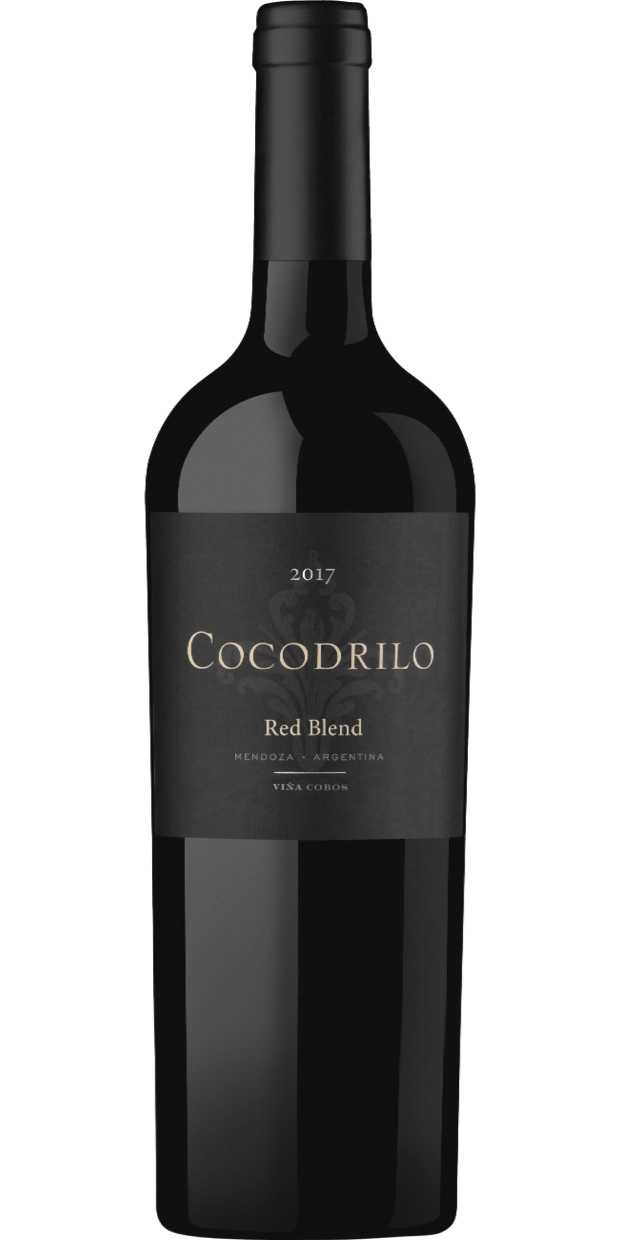
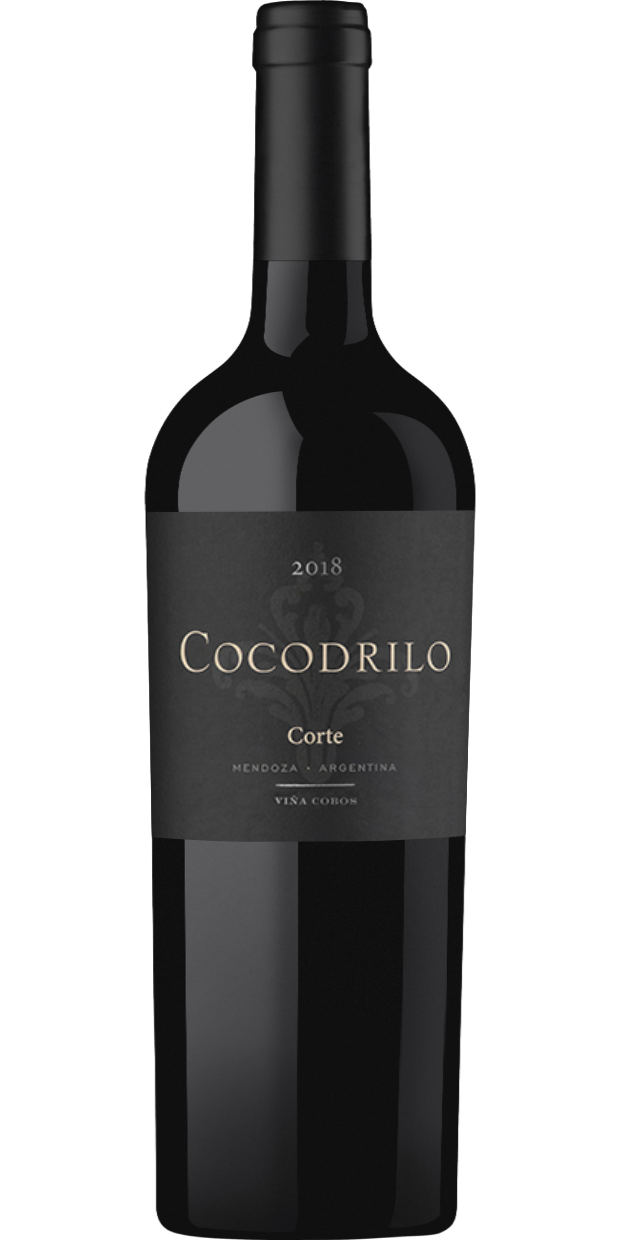
Cobos

Changed region(s): [[0.2758, 0.3984, 0.7661, 0.6742], [0.429, 0.5823, 0.5823, 0.6742], [0.4597, 0.429, 0.5516, 0.4903]]

diff --git a/src/data/WineData.ts b/src/data/WineData.ts
@@ -132,9 +132,9 @@ export const WineData: { [key: string]: WineDataType } = {
   "cobos_cocodrilo_corte": {
     img: require('../public/images/wines/cobos_cocodrilo_corte.png'),     //DONE
     cellar: 'cobos',
-    description: 'Un vino complejo, muy elegante y equilibrado. En nariz se destaca la frescura, donde encontramos frutas rojas como guinda y cassis, granada o cereza negra. Notas especiadas muy características del cabernet -pimienta, clavo de olor y paprika- se complementan con un toque floral y una nota herbal a eucalipto para lograr este elegante bouquet. En boca tiene una entrada amable, taninos finos y dulces, buena longitud de boca y persistencia.',
+    description: 'Cocodrilo Corte sigue la tradición del assemblage al estilo Bordeaux. Mantiene su base Cabernet Sauvignon, variando cada cosecha los demás componentes según el mejor criterio de los enólogos. Es un vino complejo, elegante y refinado.',
     datasheet: require('../public/datasheets/Cobos Cocodrilo Red Blend.pdf'),
-    store: 'https://tienda.morewine.ar/productos/cocodrilo-red-blend-corte-2017/',
+    store: 'https://tienda.morewine.ar/productos/cocodrilo-corte-2018/',
   },
   "cobos_felino_malbec": {
     img: require('../public/images/wines/cobos_felino_malbec.png'),       //DONE
